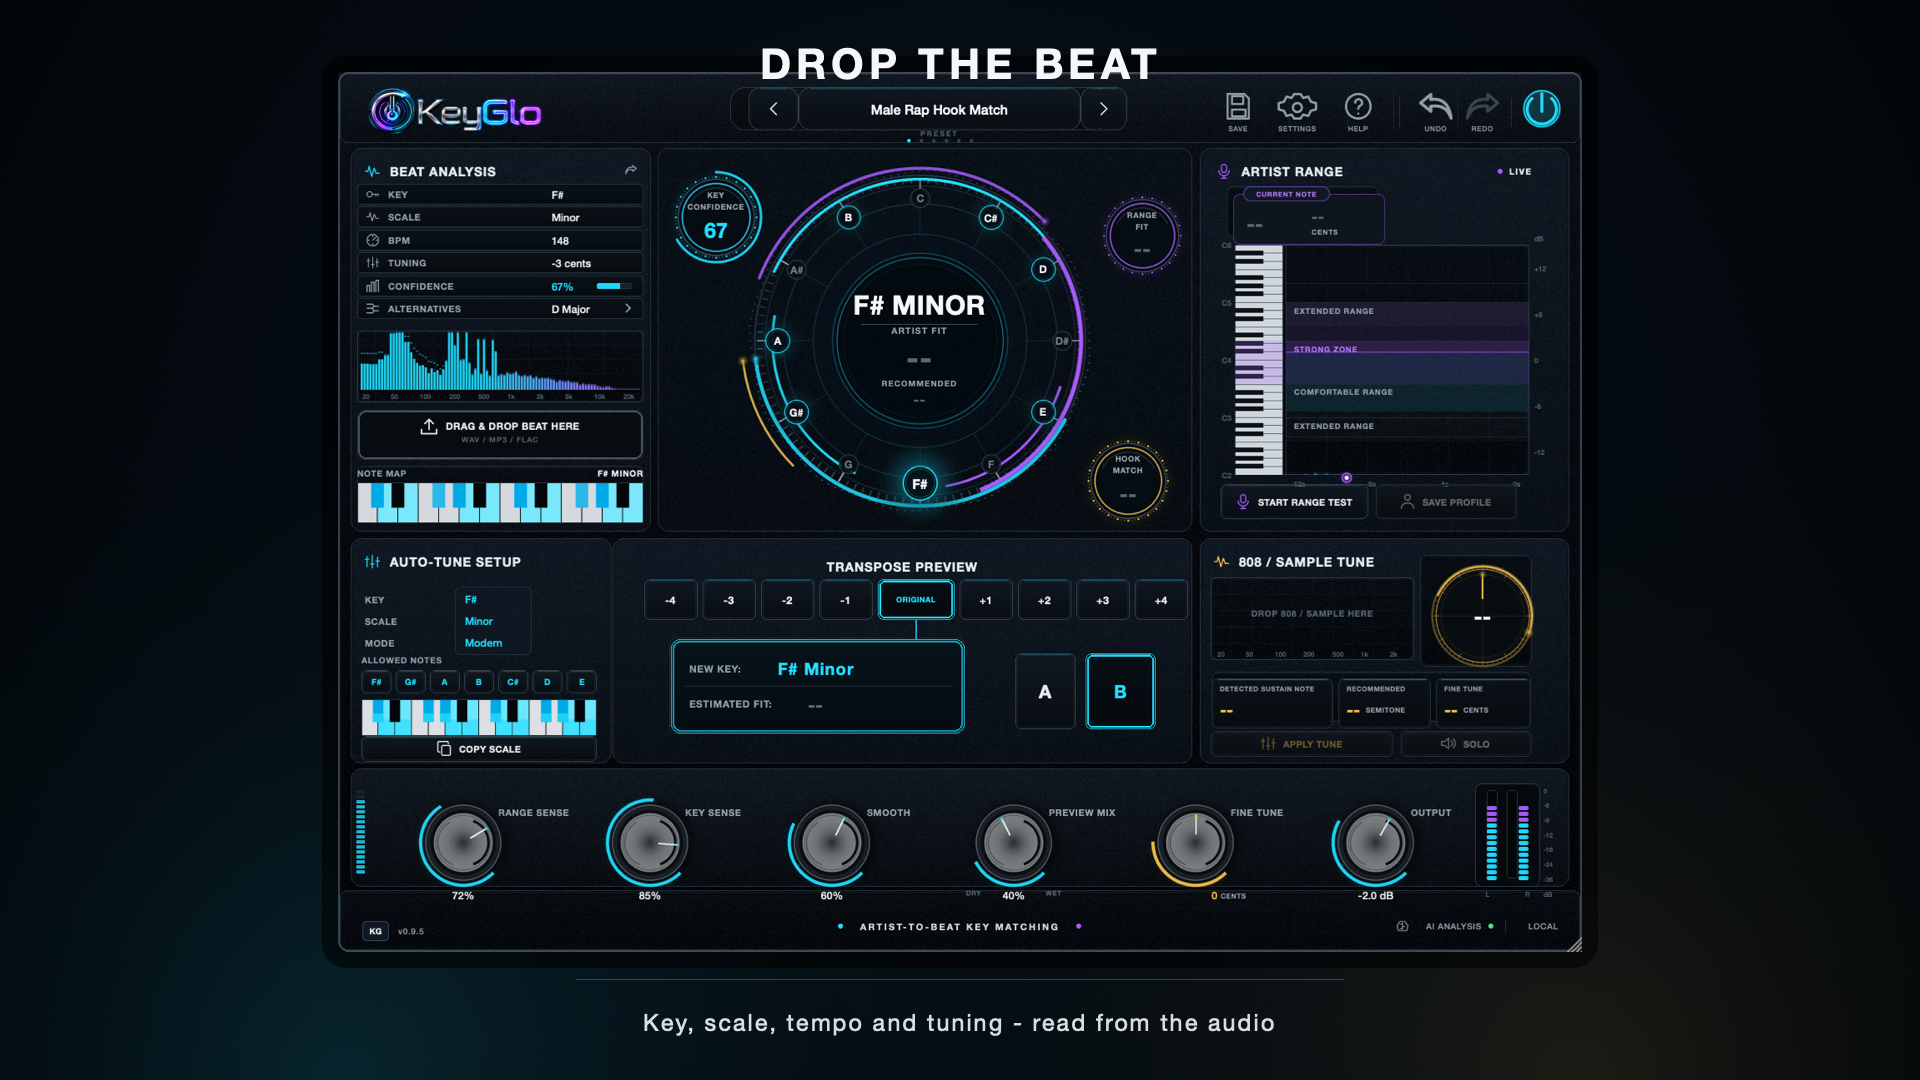
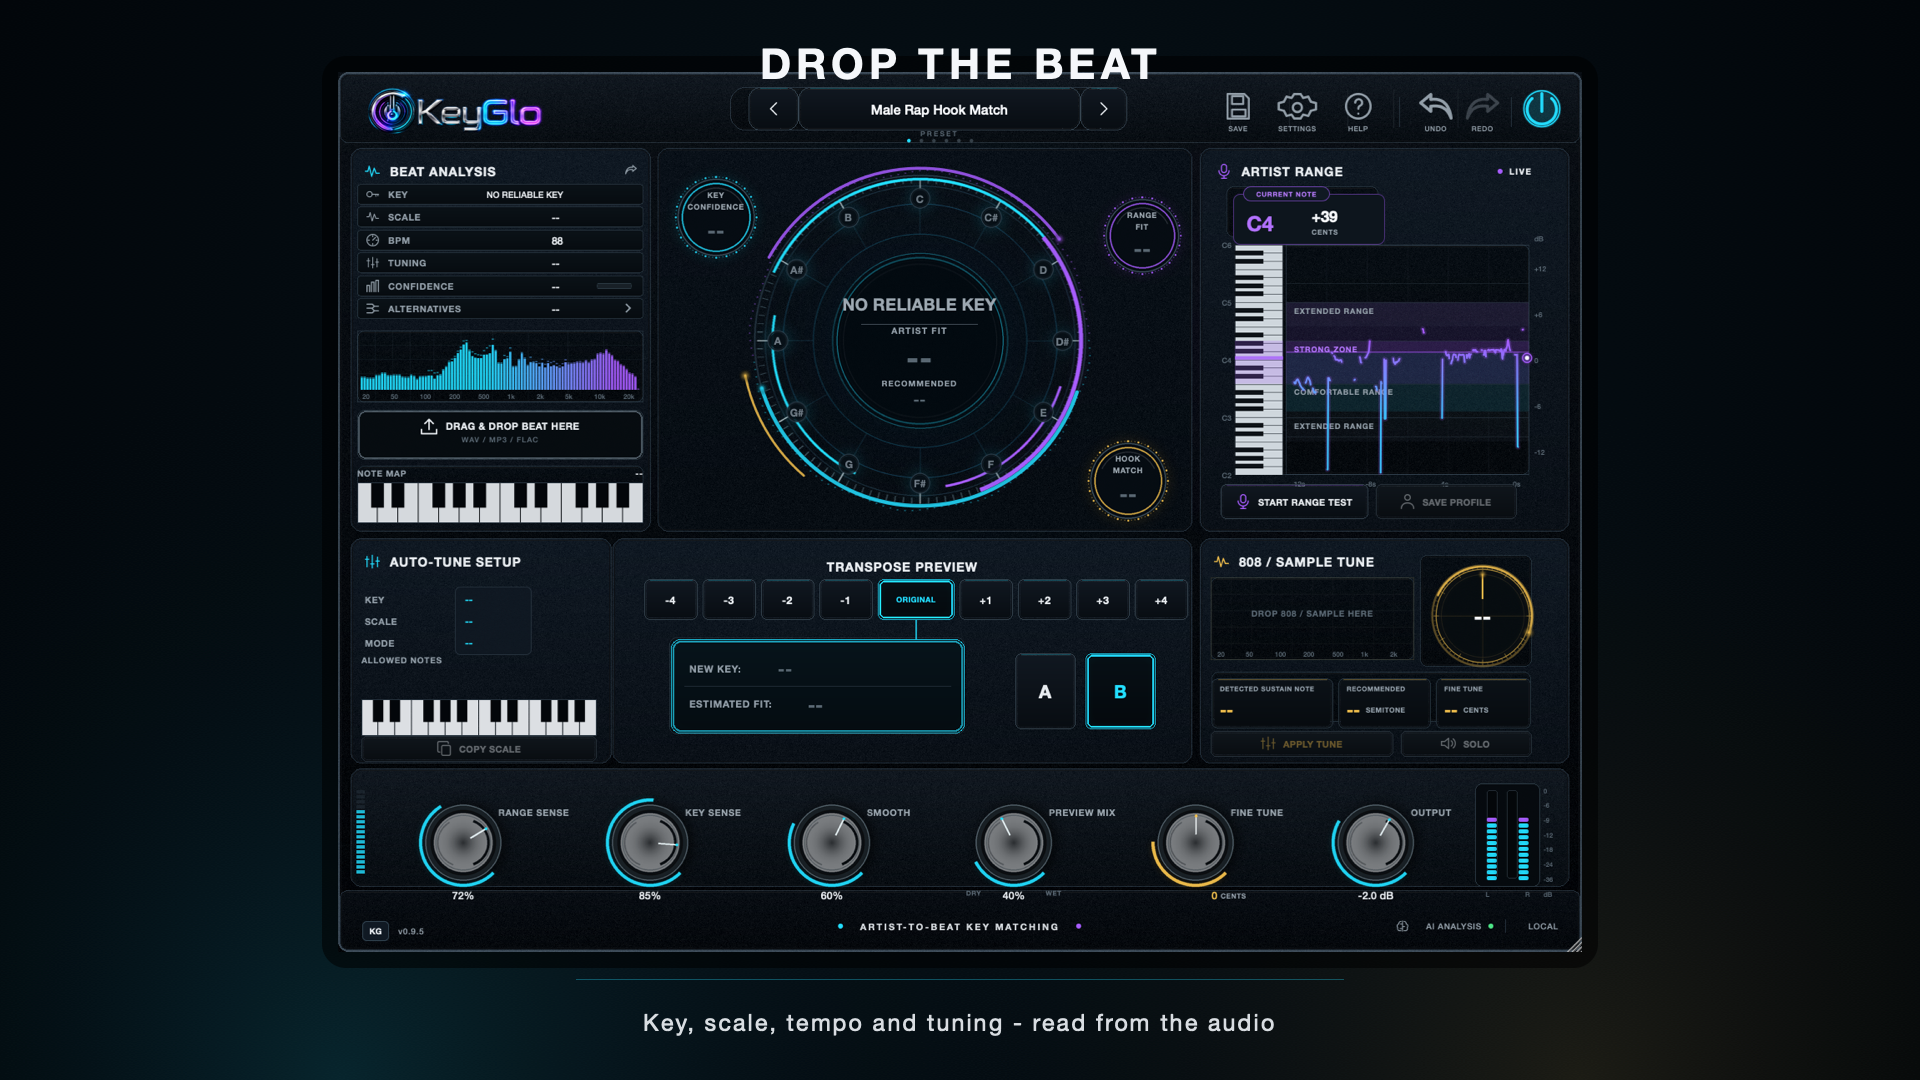
Engine fixes found by the user's real beats
Two productions with the truth in their filenames (F#min/132, A#min/126)
exposed two bugs that synthetic fixtures could not.

TEMPO: both read wrong, and both errors were triplet-family rather than
the octave errors the click fixtures test. Probing the correlation curve
showed why: in both beats the DOMINANT periodicity is the dotted quarter,
not the beat (88 scored 0.189 vs 132 at 0.156; 84 scored 0.158 vs 126 at
0.120) - the 3-3-2 trap pattern. Both true tempos sat at exactly 3/2 of
the dominant peak. Added a named dotted-pulse correction plus the
existing octave walk-down, replacing an inconclusive comb-ratio search
that had layered heuristics interfering with each other. Now 134.2 and
126.4. Confidence is measured at the dominant pulse, not the corrected
lag: "is there a clear pulse" and "which level do we name" are different
questions, and conflating them reported cleanly-pulsed beats unreliable.

KEY: both keys were CORRECT, but one was marked unreliable, so the plugin
would have displayed NO RELIABLE KEY over a right answer. The gates were
calibrated on clean synthetic chords. Measured across real music, a drum
loop and noise, peakShare is the discriminator that actually separates
pitched material from percussion (0.58-0.63 vs 0.28 vs 0.00), while bestR
and confidence do not - a drum loop out-scores a real production on both.
Gates rebalanced onto peakShare, with a new drum-loop fixture guarding
the change.
[…]

diff --git a/Source/analysis/TempoDetector.cpp b/Source/analysis/TempoDetector.cpp
@@ -88,25 +88,79 @@ TempoResult TempoDetector::analyse (const float* mono, int numSamples, double sa
     // Mild preference for the hip-hop/R&B pocket so the metrical level lands
     // where a producer expects it (raw autocorrelation often prefers half
     // time). Gaussian window centred near 105 BPM, gentle.
-    auto weighted = [&] (int lag)
+    auto perceptual = [&] (double lag)
     {
         const double bpm = 60.0 * fluxRate / lag;
-        const double w = std::exp (-0.5 * std::pow (std::log2 (bpm / 105.0) / 1.1, 2.0));
-        return ac[(size_t) lag] * (float) (0.35 + 0.65 * w);
+        return 0.35 + 0.65 * std::exp (-0.5 * std::pow (std::log2 (bpm / 105.0) / 1.1, 2.0));
     };
 
-    int bestLag = minLag;
-    for (int lag = minLag + 1; lag <= maxLag; ++lag)
-        if (weighted (lag) > weighted (bestLag))
-            bestLag = lag;
+    auto acAtLag = [&] (double lag) -> double
+    {
+        const int i = (int) std::lround (lag);
+        return (i >= minLag && i <= maxLag) ? ac[(size_t) i] : 0.0;
+    };
 
-    // Autocorrelation inherently favours slower levels (a longer lag inherits
-    // every shorter periodicity), so walk down to the fastest metrical level
-    // whose evidence is nearly as strong - a groove with an onset on every
-    // beat should report the beat, not the half-note.
-    while (bestLag / 2 >= minLag
-            && ac[(size_t) (bestLag / 2)] >= 0.82f * ac[(size_t) bestLag])
-        bestLag /= 2;
+    // How well a candidate beat period explains the envelope: a true beat has
+    // peaks not only at its own lag but at its multiples, so score a short
+    // comb. Judging a candidate by its own lag alone is what makes a detector
+    // prefer whatever periodicity happens to be strongest, which on real
+    // productions is often a triplet subdivision rather than the beat.
+    auto combScore = [&] (double lag)
+    {
+        // Weighted SUM, not an average: a candidate is rewarded for having
+        // support at its multiples, and must not be penalised merely for
+        // having more of them in range. Averaging did exactly that - it made
+        // slow candidates (few multiples below maxLag) look better than the
+        // beat, which is the opposite of the intent.
+        static const double w[4] = { 1.0, 0.6, 0.35, 0.2 };
+        double sum = 0.0;
+        for (int m = 1; m <= 4; ++m)
+        {
+            const double l = lag * m;
+            if (l > maxLag)
+                break;
+            sum += w[m - 1] * acAtLag (l);
+        }
+        return sum * perceptual (lag);
+    };
+
+    int rawBest = minLag;
+    for (int lag = minLag + 1; lag <= maxLag; ++lag)
+        if (ac[(size_t) lag] * perceptual (lag) > ac[(size_t) rawBest] * perceptual (rawBest))
+            rawBest = lag;
+
+    // From the dominant pulse to the beat, in two explicit steps. An earlier
+    // version searched a basket of metrical ratios by comb score; it was not
+    // decisive (132 and 176 landed within 3 % of each other) and the layered
+    // heuristics interfered with one another. Two named corrections, each
+    // with a measured justification, are easier to reason about and to test.
+    double bestLagD = rawBest;
+
+    // 1. Dotted-pulse correction. In modern trap the 3-3-2 pattern makes the
+    //    DOTTED QUARTER the strongest periodicity in the envelope, not the
+    //    beat. Measured on two real productions: 88 BPM outscored the true
+    //    132 (0.189 vs 0.156), and 84 outscored the true 126 (0.158 vs
+    //    0.120) - in both cases the real tempo sat at exactly 3/2 of the
+    //    dominant peak. When the 3/2 relative still carries most of the
+    //    peak's support, the peak was a subdivision. A straight groove has
+    //    little energy there and is left alone.
+    {
+        const double faster = bestLagD * (2.0 / 3.0);
+        const double fasterBpm = 60.0 * fluxRate / faster;
+        if (faster >= minLag && fasterBpm <= 200.0
+             && acAtLag (faster) >= 0.70 * acAtLag (bestLagD))
+            bestLagD = faster;
+    }
+
+    // 2. Octave walk-down: autocorrelation inherently favours slower levels
+    //    (a longer lag inherits every shorter periodicity), so drop to the
+    //    fastest level whose evidence is nearly as strong - a groove with an
+    //    onset on every beat should report the beat, not the half-note.
+    while (bestLagD / 2.0 >= minLag
+            && acAtLag (bestLagD / 2.0) >= 0.82 * acAtLag (bestLagD))
+        bestLagD /= 2.0;
+
+    int bestLag = juce::jlimit (minLag, maxLag, (int) std::lround (bestLagD));
 
     // Parabolic refinement of the lag.
     double lagRefined = bestLag;
@@ -138,13 +192,27 @@ TempoResult TempoDetector::analyse (const float* mono, int numSamples, double sa
     if (dblA > bestA * 0.75f && bpm * 2.0f <= 220.0f)
         result.candidates.push_back (bpm * 2.0f);
 
-    // Confidence: how much the beat lag stands out of the mean correlation.
+    // The dominant pulse itself, when a correction moved off it: hearing the
+    // groove at the dotted level is a legitimate reading, not an error.
+    const double rawBpm = 60.0 * fluxRate / rawBest;
+    if (std::abs (rawBpm - bpm) > 1.0 && rawBpm >= 55.0 && rawBpm <= 220.0)
+        result.candidates.push_back ((float) rawBpm);
+
+    // Confidence is measured at the DOMINANT pulse, not at the corrected lag.
+    // Two different questions live here: "is there a clear periodic pulse?"
+    // (what makes a tempo readable at all) and "which metrical level do we
+    // name?" (genuinely harder, and what the corrections above decide).
+    // Scoring the first at the corrected lag conflated them and reported
+    // real, cleanly-pulsed beats as unreliable.
     double meanAc = 0.0; int count = 0;
     for (int lag = minLag; lag <= maxLag; ++lag) { meanAc += ac[(size_t) lag]; ++count; }
     meanAc /= juce::jmax (1, count);
+    const float pulseA = ac[(size_t) rawBest];
     result.confidence = juce::jlimit (0.0f, 1.0f,
-                                      (float) ((bestA - meanAc) / juce::jmax (0.05, meanAc * 2.0)));
-    result.reliable = bestA > 0.05f && result.confidence > 0.15f;
+                                      (float) ((pulseA - meanAc) / juce::jmax (0.05, meanAc * 2.0)));
+    result.reliable = pulseA > 0.05f && result.confidence > 0.15f;
+    result.acCurve = ac;
+    result.fluxRate = fluxRate;
 
     return result;
 }

diff --git a/tools/AnalyseFile.cpp b/tools/AnalyseFile.cpp
@@ -1,0 +1,82 @@
+// -----------------------------------------------------------------------------
+//  Ground-truth checker: runs the real detectors over audio files and prints
+//  what they return. Built for iterating on the analysis engines against REAL
+//  music, where the filename often carries the truth:
+//
+//    make analyse ARGS="'beat_BPM132_F#min.wav' other.wav"
+//
+//  Synthetic fixtures cannot produce the errors real productions do - the
+//  132 BPM beat KeyGlo first read as 88 (a 2:3 metrical error from triplet
+//  hats) never appeared in a straight click track.
+// -----------------------------------------------------------------------------
+
+#include "../Source/analysis/BeatKeyDetector.h"
+#include "../Source/analysis/TempoDetector.h"
+#include <cstdio>
+
+using namespace keyglo;
+
+int main (int argc, char** argv)
+{
+    juce::ScopedJuceInitialiser_GUI init;
+    juce::AudioFormatManager formats;
+    formats.registerBasicFormats();
+
+    for (int i = 1; i < argc; ++i)
+    {
+        const juce::File f { juce::String (argv[i]) };
+        if (! f.existsAsFile())
+        {
+            std::printf ("no such file: %s\n", argv[i]);
+            continue;
+        }
+
+        std::unique_ptr<juce::AudioFormatReader> reader (formats.createReaderFor (f));
+        if (reader == nullptr)
+        {
+            std::printf ("unreadable: %s\n", argv[i]);
+            continue;
+        }
+
+        const int n = (int) juce::jmin<juce::int64> (reader->lengthInSamples,
+                                                     (juce::int64) (reader->sampleRate * 30.0));
+        juce::AudioBuffer<float> buf ((int) reader->numChannels, n);
+        reader->read (&buf, 0, n, 0, true, true);
+
+        std::vector<float> mono ((size_t) n, 0.0f);
+        for (int ch = 0; ch < (int) reader->numChannels; ++ch)
+            for (int s = 0; s < n; ++s)
+                mono[(size_t) s] += buf.getSample (ch, s) / (float) reader->numChannels;
+
+        const auto key = BeatKeyDetector::analyse (mono.data(), n, reader->sampleRate);
+        const auto tempo = TempoDetector::analyse (mono.data(), n, reader->sampleRate);
+
+        std::printf ("\n%s\n", f.getFileName().toRawUTF8());
+        std::printf ("  key   : %s %s   (reliable %d, conf %.2f, tuning %+.0f cents)\n",
+                     key.keyName().toRawUTF8(), key.scaleName().toRawUTF8(),
+                     (int) key.reliable, key.confidence, key.tuningCents);
+        if (! key.alternatives.empty())
+        {
+            BeatKeyResult alt; alt.rootPc = key.alternatives[0].rootPc;
+            std::printf ("  alt   : %s %s\n", alt.keyName().toRawUTF8(),
+                         key.alternatives[0].minor ? "Minor" : "Major");
+        }
+        std::printf ("  gates : peakShare %.3f  inScale %.2f  bestR %.2f\n",
+                     key.gatePeakShare, key.gateSpread, key.gateBestR);
+        std::printf ("  tempo : %.1f BPM  (reliable %d, conf %.2f)\n",
+                     tempo.bpm, (int) tempo.reliable, tempo.confidence);
+        std::printf ("  cands : ");
+        for (float c : tempo.candidates)
+            std::printf ("%.1f  ", c);
+        std::printf ("\n");
+
+        // What does the envelope actually say at the musically plausible
+        // levels? If the true tempo has no peak here, no amount of ranking
+        // will find it and the honest answer is to report uncertainty.
+        std::printf ("  probe : ");
+        for (double b : { 66.0, 84.0, 88.0, 105.0, 126.0, 132.0, 168.0, 176.0 })
+            std::printf ("%.0f=%.3f  ", b, tempo.acAtBpm (b));
+        std::printf ("\n");
+    }
+    return 0;
+}

diff --git a/tools/DspTest.cpp b/tools/DspTest.cpp
@@ -496,6 +496,61 @@ int main()
     }
 
     {
+        // A DRUM LOOP: kick, snare, closed hats. Percussive and rhythmic but
+        // with no sustained pitched content - the material the "No Reliable
+        // Key" answer exists for. This fixture guards the key gates: they are
+        // set from real-music measurements (a real production scored bestR
+        // 0.43 while a synthetic chord loop scores 0.9), and loosening them
+        // must never let percussion claim a key.
+        juce::Random rng (0xd7u);
+        const double sr = 48000.0;
+        const int n = (int) (sr * 10.0);
+        std::vector<float> drums ((size_t) n, 0.0f);
+        const double beatLen = 60.0 / 140.0;
+        double kickPhase = 0.0;
+        for (int i = 0; i < n; ++i)
+        {
+            const double t = i / sr;
+            const double inBeat = std::fmod (t, beatLen);
+            const double inBar = std::fmod (t, beatLen * 4.0);
+
+            // Kick on 1 and 3: a short pitch-swept sine, as inharmonic in
+            // aggregate as a real kick.
+            float v = 0.0f;
+            if (inBar < 0.25 || (inBar >= beatLen * 2.0 && inBar < beatLen * 2.0 + 0.25))
+            {
+                const double kt = std::fmod (inBar, beatLen * 2.0);
+                kickPhase += juce::MathConstants<double>::twoPi
+                               * (55.0 + 90.0 * std::exp (-kt / 0.02)) / sr;
+                v += 0.9f * (float) (std::exp (-kt / 0.06) * std::sin (kickPhase));
+            }
+            // Snare on 2 and 4: filtered noise burst.
+            const double sn = std::fmod (inBar + beatLen * 3.0, beatLen * 2.0);
+            if (sn < 0.2)
+                v += 0.5f * (float) std::exp (-sn / 0.05) * (rng.nextFloat() * 2.0f - 1.0f);
+            // Hats on eighths.
+            const double ht = std::fmod (t, beatLen * 0.5);
+            if (ht < 0.03)
+                v += 0.18f * (float) std::exp (-ht / 0.008) * (rng.nextFloat() * 2.0f - 1.0f);
+
+            drums[(size_t) i] = juce::jlimit (-1.0f, 1.0f, v);
+        }
+
+        const auto r = BeatKeyDetector::analyse (drums.data(), n, sr);
+        std::printf ("        [drum-loop gates: peakShare %.3f inScale %.2f bestR %.2f conf %.2f]\n",
+                     r.gatePeakShare, r.gateSpread, r.gateBestR, r.confidence);
+        check (! r.reliable,
+               "drum loop: no reliable key (peakShare " + juce::String (r.gatePeakShare, 3)
+                 + ", inScale " + juce::String (r.gateSpread, 2)
+                 + ", bestR " + juce::String (r.gateBestR, 2)
+                 + ", conf " + juce::String (r.confidence, 2) + ")");
+
+        const auto t2 = TempoDetector::analyse (drums.data(), n, sr);
+        check (t2.reliable && std::abs (t2.bpm - 140.0f) < 3.0f,
+               "drum loop tempo is 140 (got " + juce::String (t2.bpm, 1) + ")");
+    }
+
+    {
         // Noise + clicks have no key. Honesty gate: reliable must be false.
         juce::Random rng (0x4b47);
         std::vector<float> noise ((size_t) (44100 * 8), 0.0f);

diff --git a/tools/MakeVideo.cpp b/tools/MakeVideo.cpp
@@ -695,7 +695,12 @@ int main (int argc, char** argv)
         // async path a dropped file takes, and the artist profile is the one
         // the range test would build. Waiting here rather than mid-render
         // keeps the timeline honest about what is on screen when.
-        processor.analyseFileAsync (fixtures.beat);
+        //
+        // When a real beat is supplied it is what gets analysed - the film
+        // must show KeyGlo reading the music the viewer is hearing, not a
+        // synthetic stand-in with a different key.
+        const juce::File beatForAnalysis = haveMusic ? sourceAudio : fixtures.beat;
+        processor.analyseFileAsync (beatForAnalysis);
         for (int i = 0; i < 400; ++i)
         {
             auto snap = processor.getDisplayModel().get();
@@ -751,12 +756,12 @@ int main (int argc, char** argv)
 
             { 11.0, 21.0, "Drop the beat",
               "Key, scale, tempo and tuning - read from the audio",
-              [&fixtures] (KeyGloProcessor& p, KeyGloEditor&, double progress)
+              [&beatForAnalysis] (KeyGloProcessor& p, KeyGloEditor&, double progress)
               {
                   // Re-analysing on screen shows the ANALYZING state resolve
                   // into a real verdict rather than cutting to a finished one.
                   if (progress < 0.02)
-                      p.analyseFileAsync (fixtures.beat);
+                      p.analyseFileAsync (beatForAnalysis);
               } },
 
             { 21.0, 29.0, "No reliable key beats a wrong one",
@@ -805,10 +810,10 @@ int main (int argc, char** argv)
 
             { 3.2, 10.5, "What key is this beat?",
               "Drop it in. Read it in seconds.",
-              [&fixtures] (KeyGloProcessor& p, KeyGloEditor&, double progress)
+              [&beatForAnalysis] (KeyGloProcessor& p, KeyGloEditor&, double progress)
               {
                   if (progress < 0.03)
-                      p.analyseFileAsync (fixtures.beat);
+                      p.analyseFileAsync (beatForAnalysis);
               },
               { 15.0f, 91.0f, 360.0f, 460.0f } },          // beat panel
 

diff --git a/Source/analysis/BeatKeyDetector.cpp b/Source/analysis/BeatKeyDetector.cpp
@@ -209,14 +209,27 @@ BeatKeyResult BeatKeyDetector::analyse (const float* mono, int numSamples, doubl
     result.gateSpread = (float) inScaleShare;
     result.gateBestR = best.r;
 
-    // Thresholds measured against the fixtures: clean loops score in-scale
-    // ~0.9, a produced groove with a pitch-swept 808 and a noise bed ~0.68;
-    // noise/percussion never produces surviving peaks at all (share 0).
-    result.reliable = best.r > 0.45f
-                       && peakShare > 0.10
+    // Thresholds set from MEASURED material, synthetic and real:
+    //
+    //                       peakShare  inScale  bestR  conf
+    //   real production A      0.63      0.68    0.43  0.26   must pass
+    //   real production B      0.58      0.73    0.68  0.38   must pass
+    //   drum loop              0.28      0.62    0.39  0.29   must fail
+    //   white noise            0.00      0.00    0.00  0.00   must fail
+    //   synthetic chord loops  0.87      0.90+   0.73+ 0.5+    must pass
+    //
+    // peakShare - the share of spectral energy sitting in resolved peaks -
+    // is the discriminator that actually separates pitched music from
+    // percussion (2x margin). bestR and confidence do NOT: a drum loop can
+    // out-correlate a real production on both, because a sparse chroma
+    // matches some template well. The original gates were calibrated on
+    // clean synthetic chords only, and would have shown NO RELIABLE KEY on a
+    // real record whose key it had detected correctly.
+    result.reliable = peakShare > 0.45
                        && inScaleShare > 0.62
+                       && best.r > 0.35f
                        && spread > 0.25
-                       && result.confidence > 0.30f;
+                       && result.confidence > 0.20f;
 
     for (size_t i = 1; i < scored.size() && result.alternatives.size() < 3; ++i)
     {

diff --git a/Source/analysis/TempoDetector.h b/Source/analysis/TempoDetector.h
@@ -20,6 +20,18 @@ struct TempoResult
     float bpm = 0.0f;
     float confidence = 0.0f;
     std::vector<float> candidates;   // ranked, best first (includes bpm)
+
+    // Diagnostics for ground-truth work (make analyse): the raw
+    // autocorrelation curve and the rate its lags are expressed in, so a
+    // caller can ask what the envelope says at any specific BPM.
+    std::vector<float> acCurve;
+    double fluxRate = 0.0;
+    float acAtBpm (double bpm) const
+    {
+        if (fluxRate <= 0.0 || bpm <= 0.0) return 0.0f;
+        const int lag = (int) std::lround (60.0 * fluxRate / bpm);
+        return (lag >= 0 && lag < (int) acCurve.size()) ? acCurve[(size_t) lag] : 0.0f;
+    }
 };
 
 class TempoDetector
